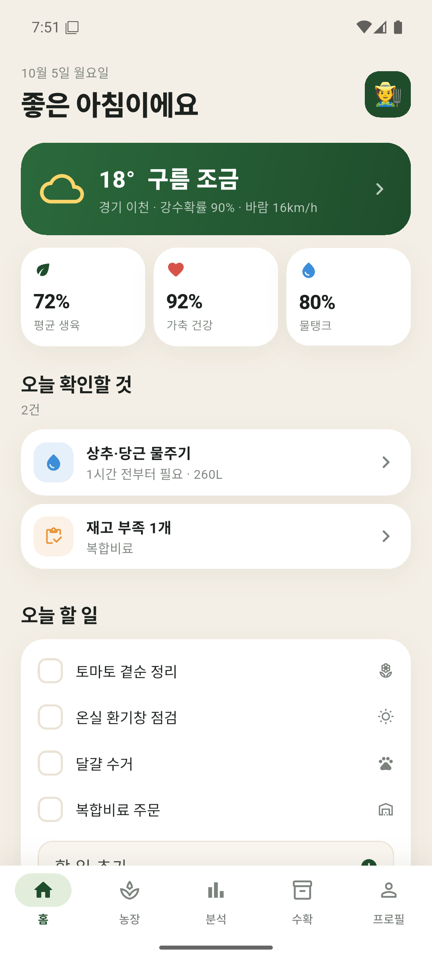
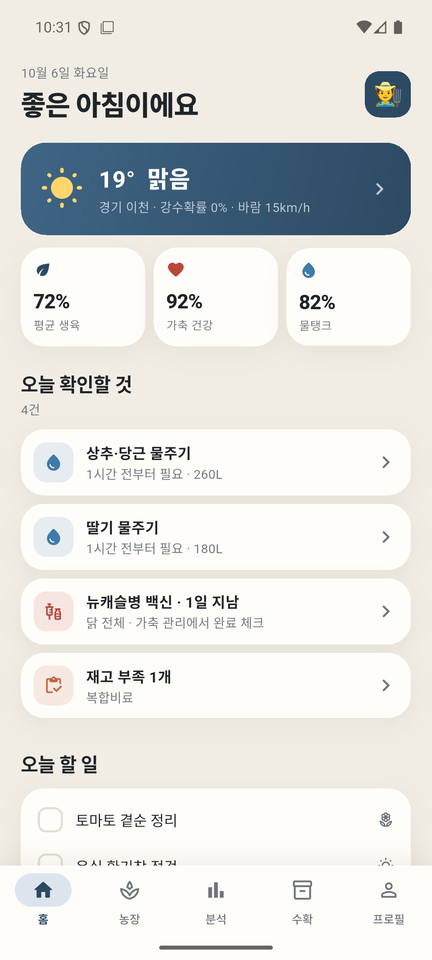
docs: 새 디자인으로 스크린샷·배너 교체, 5일 예보 날짜 칸 줄바꿈 수정
- README·소개 페이지 스크린샷 7장과 배너(OG 이미지)를 새 지도·팔레트로 다시 찍음(에뮬레이터, 예시 농장)
- 날씨 5일 예보 날짜 칸 64 → 96px, 한 줄 고정("10. 10. (토)"가 두 줄로 넘어가던 문제, BACKLOG 항목)

diff --git a/lib/features/weather/weather_screen.dart b/lib/features/weather/weather_screen.dart
@@ -150,11 +150,15 @@ class _WeatherScreenState extends State<WeatherScreen> {
                                       padding: const EdgeInsets.symmetric(vertical: 8),
                                       child: Row(
                                         children: [
+                                          // "10. 10. (토)"처럼 두 자리 월·일도 한 줄에 들어가는 폭.
                                           SizedBox(
-                                            width: 64,
+                                            width: 96,
                                             child: Text(
                                               DateFormat.MEd(context.localeName).format(d.date),
                                               style: AppText.body,
+                                              maxLines: 1,
+                                              softWrap: false,
+                                              overflow: TextOverflow.fade,
                                             ),
                                           ),
                                           Icon(describeWeather(d.code).$2, size: 20, color: AppColors.orange),

diff --git a/BACKLOG.md b/BACKLOG.md
@@ -20,7 +20,7 @@ v1.0.0에 넣지 않은 항목입니다. "무엇을 · 왜 · 영향 범위" 순
 
 ## 화면 다듬기
 
-- [ ] **5일 예보 날짜 칸 줄바꿈** · 날짜 칸 폭이 64px로 고정되어 "10. 10. (토)"처럼 두 자리 월·일이면 두 줄로 넘어감(1080px 기기에서 확인) · `weather_screen.dart` 예보 행
+- [x] **5일 예보 날짜 칸 줄바꿈** (v1.7.0) · 날짜 칸 폭이 64px로 고정되어 "10. 10. (토)"처럼 두 자리 월·일이면 두 줄로 넘어감(1080px 기기에서 확인) · `weather_screen.dart` 예보 행
 
 ## 하드닝 후보
 
